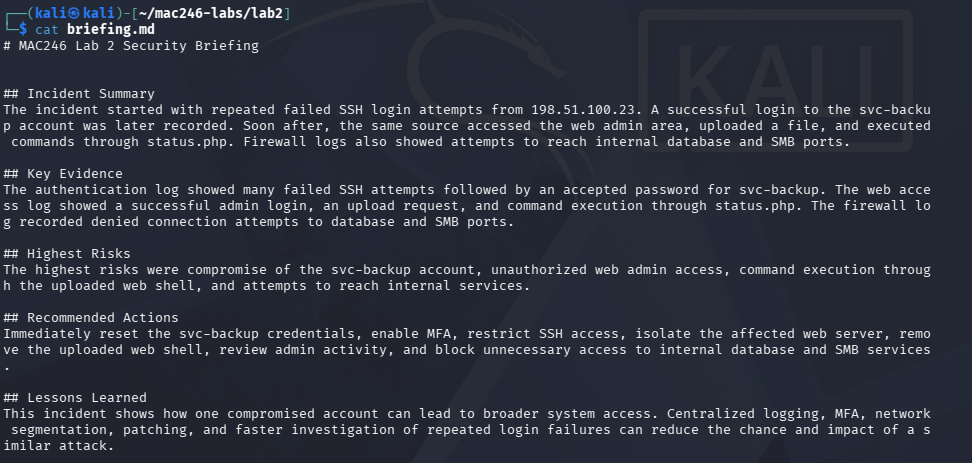
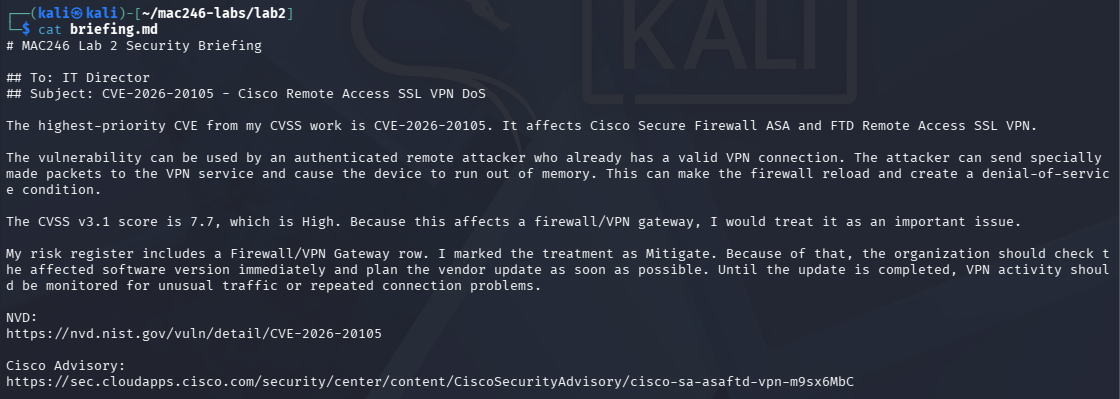
fix session 7 risk register and briefing

diff --git a/lab2/briefing.md b/lab2/briefing.md
@@ -1,17 +1,18 @@
 # MAC246 Lab 2 Security Briefing
 
+## To: IT Director
+## Subject: CVE-2026-20105 - Cisco Remote Access SSL VPN DoS
 
-## Incident Summary
-The incident started with repeated failed SSH login attempts from 198.51.100.23. A successful login to the svc-backup account was later recorded. Soon after, the same source accessed the web admin area, uploaded a file, and executed commands through status.php. Firewall logs also showed attempts to reach internal database and SMB ports.
+The highest-priority CVE from my CVSS work is CVE-2026-20105. It affects Cisco Secure Firewall ASA and FTD Remote Access SSL VPN.
 
-## Key Evidence
-The authentication log showed many failed SSH attempts followed by an accepted password for svc-backup. The web access log showed a successful admin login, an upload request, and command execution through status.php. The firewall log recorded denied connection attempts to database and SMB ports.
+The vulnerability can be used by an authenticated remote attacker who already has a valid VPN connection. The attacker can send specially made packets to the VPN service and cause the device to run out of memory. This can make the firewall reload and create a denial-of-service condition.
 
-## Highest Risks
-The highest risks were compromise of the svc-backup account, unauthorized web admin access, command execution through the uploaded web shell, and attempts to reach internal services.
+The CVSS v3.1 score is 7.7, which is High. Because this affects a firewall/VPN gateway, I would treat it as an important issue.
 
-## Recommended Actions
-Immediately reset the svc-backup credentials, enable MFA, restrict SSH access, isolate the affected web server, remove the uploaded web shell, review admin activity, and block unnecessary access to internal database and SMB services.
+My risk register includes a Firewall/VPN Gateway row. I marked the treatment as Mitigate. Because of that, the organization should check the affected software version immediately and plan the vendor update as soon as possible. Until the update is completed, VPN activity should be monitored for unusual traffic or repeated connection problems.
 
-## Lessons Learned
-This incident shows how one compromised account can lead to broader system access. Centralized logging, MFA, network segmentation, patching, and faster investigation of repeated login failures can reduce the chance and impact of a similar attack.
+NVD:
+https://nvd.nist.gov/vuln/detail/CVE-2026-20105
+
+Cisco Advisory:
+https://sec.cloudapps.cisco.com/security/center/content/CiscoSecurityAdvisory/cisco-sa-asaftd-vpn-m9sx6MbC

diff --git a/lab2/risk_register.md b/lab2/risk_register.md
@@ -1,7 +1,7 @@
-| Risk | Evidence | Likelihood | Impact | Mitigation |
-|------|----------|------------|--------|------------|
-| Compromised service account | Repeated SSH failures followed by successful login to svc-backup | High | High | Reset credentials, enforce MFA, restrict SSH access |
-| Web admin compromise | Successful admin login followed by upload activity | High | High | Patch app, disable exposed admin access, review uploaded files |
-| Web shell / command execution | Requests to status.php executed commands such as id and uname | High | Critical | Remove web shell, isolate host, rebuild if needed |
-| Internal network reconnaissance | Firewall logs show probes to database and SMB ports | Medium | High | Segment network, block unnecessary ports, monitor east-west traffic |
-| Phishing credential theft | Email showed SPF/DMARC failures and misleading link | Medium | High | User training, email filtering, enforce MFA |
+| Asset | Threat | Likelihood | Impact | Inherent Risk | Treatment | Control | Residual Risk |
+|---|---|---|---|---|---|---|---|
+| Web Server (Linux VM) | Web shell or unauthorized command execution | High | High | H | Mitigate | Patch the web app and restrict file uploads | M |
+| Database Server (Linux VM) | Unauthorized database access | Medium | High | H | Mitigate | Firewall rules and network segmentation | M |
+| Backup/Utility Server (Linux VM) | SSH credential compromise | High | High | H | Mitigate | MFA, SSH keys, and restricted SSH access | M |
+| Windows Analysis Host | Malware execution during analysis | Medium | High | H | Mitigate | Use an isolated VM and endpoint protection | L |
+| Firewall/VPN Gateway | Remote Access VPN denial of service | Medium | High | H | Mitigate | Apply vendor patches and monitor VPN traffic | M |
